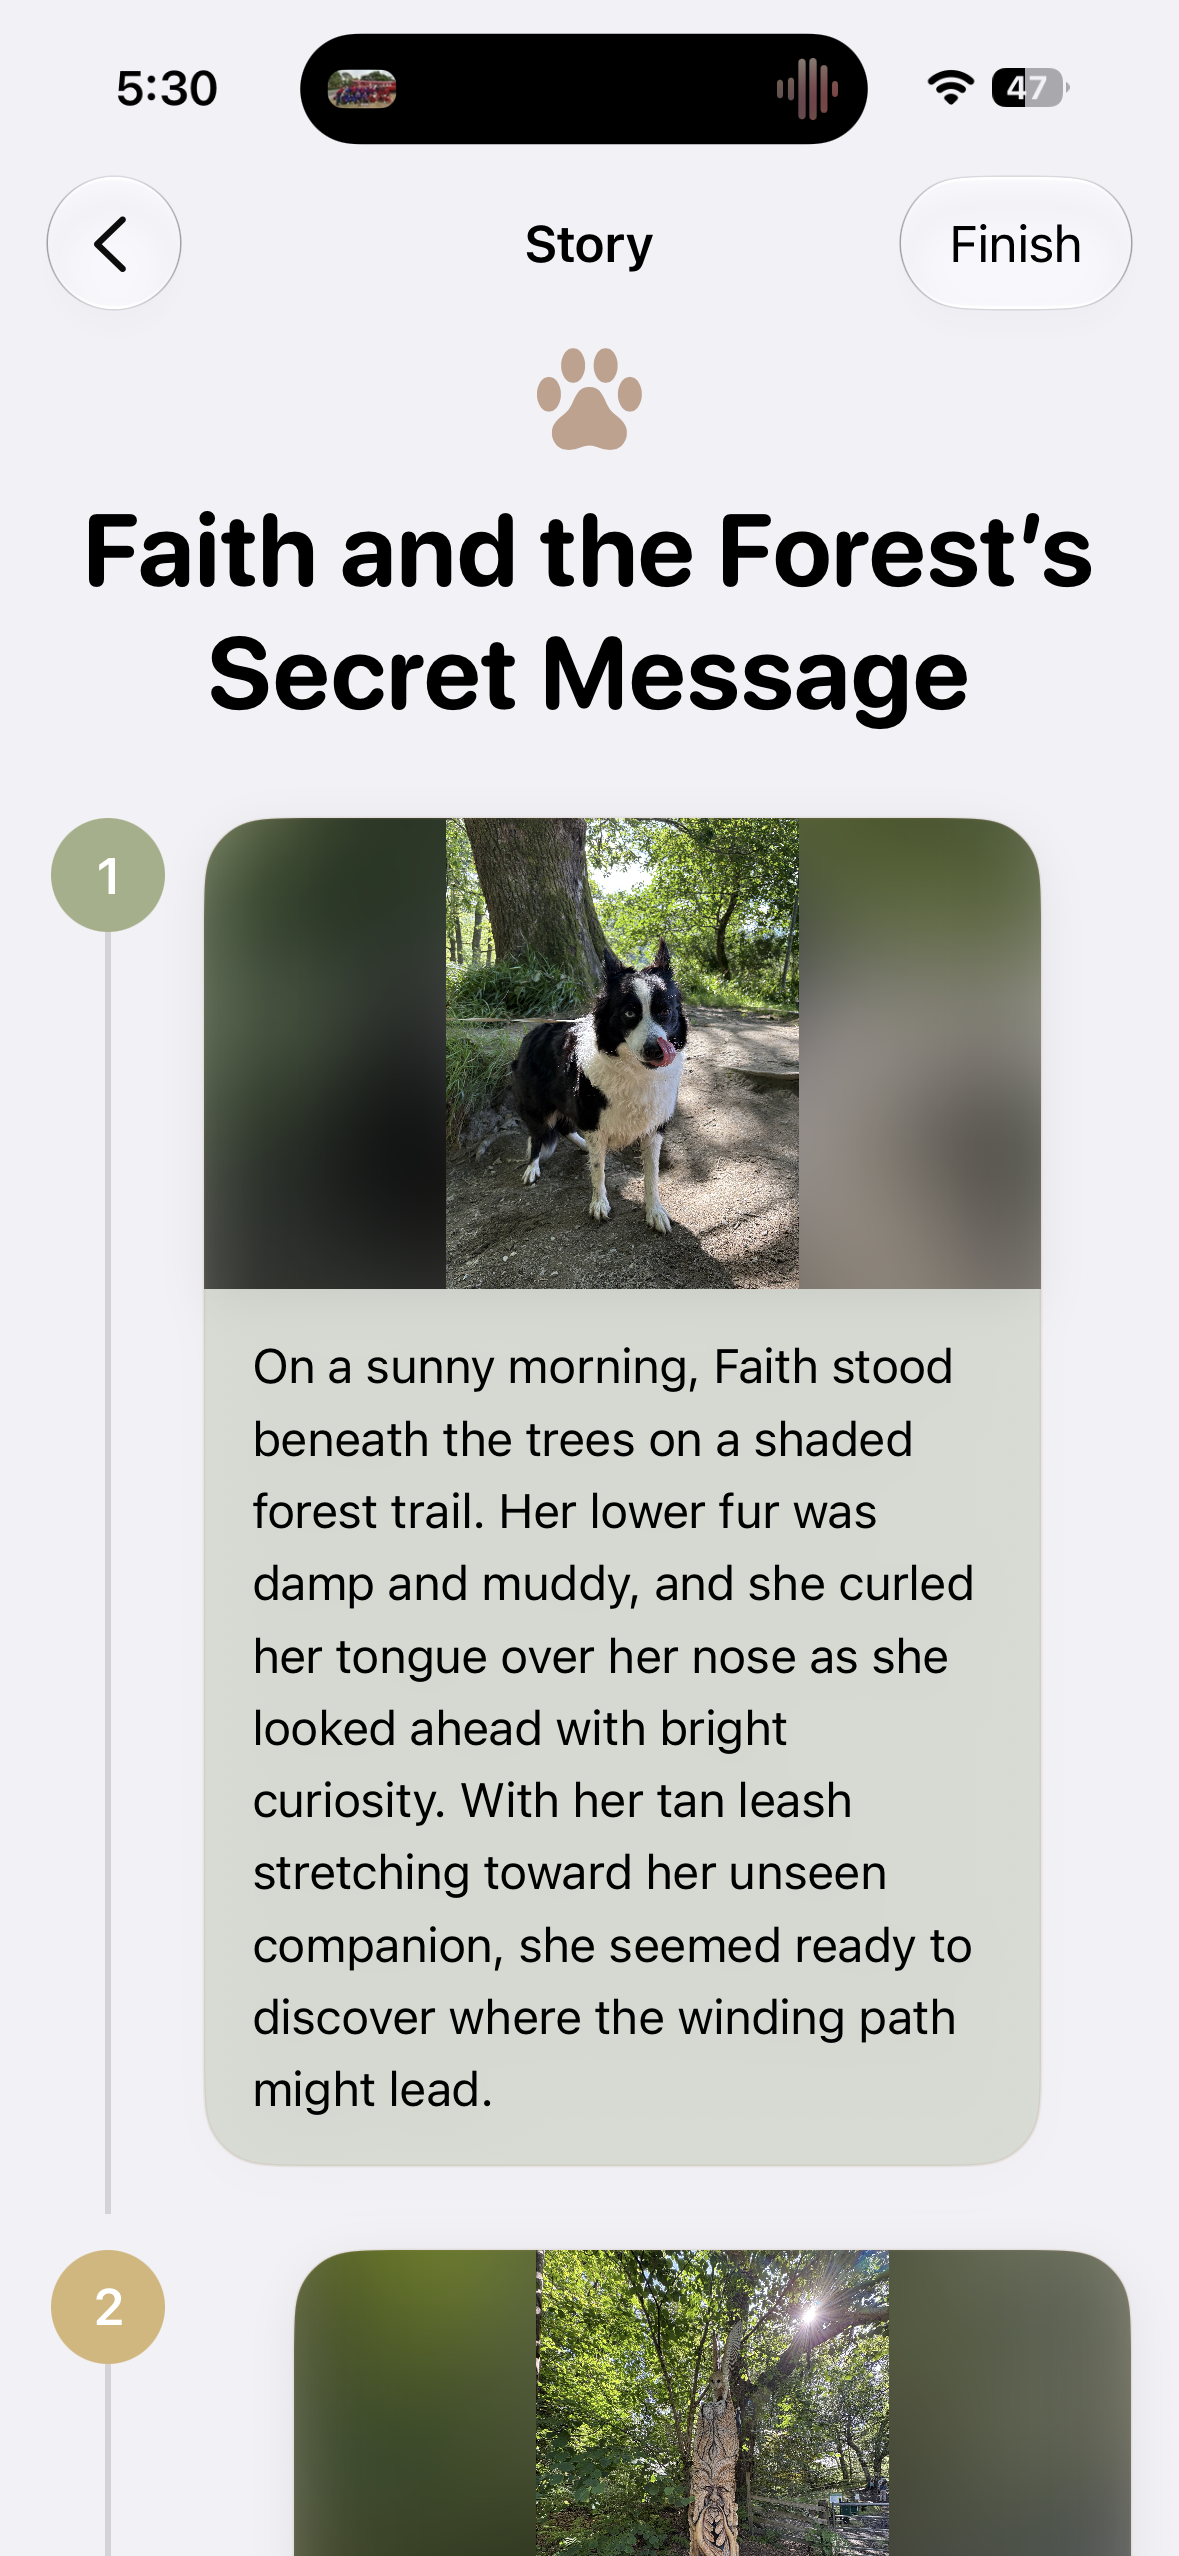
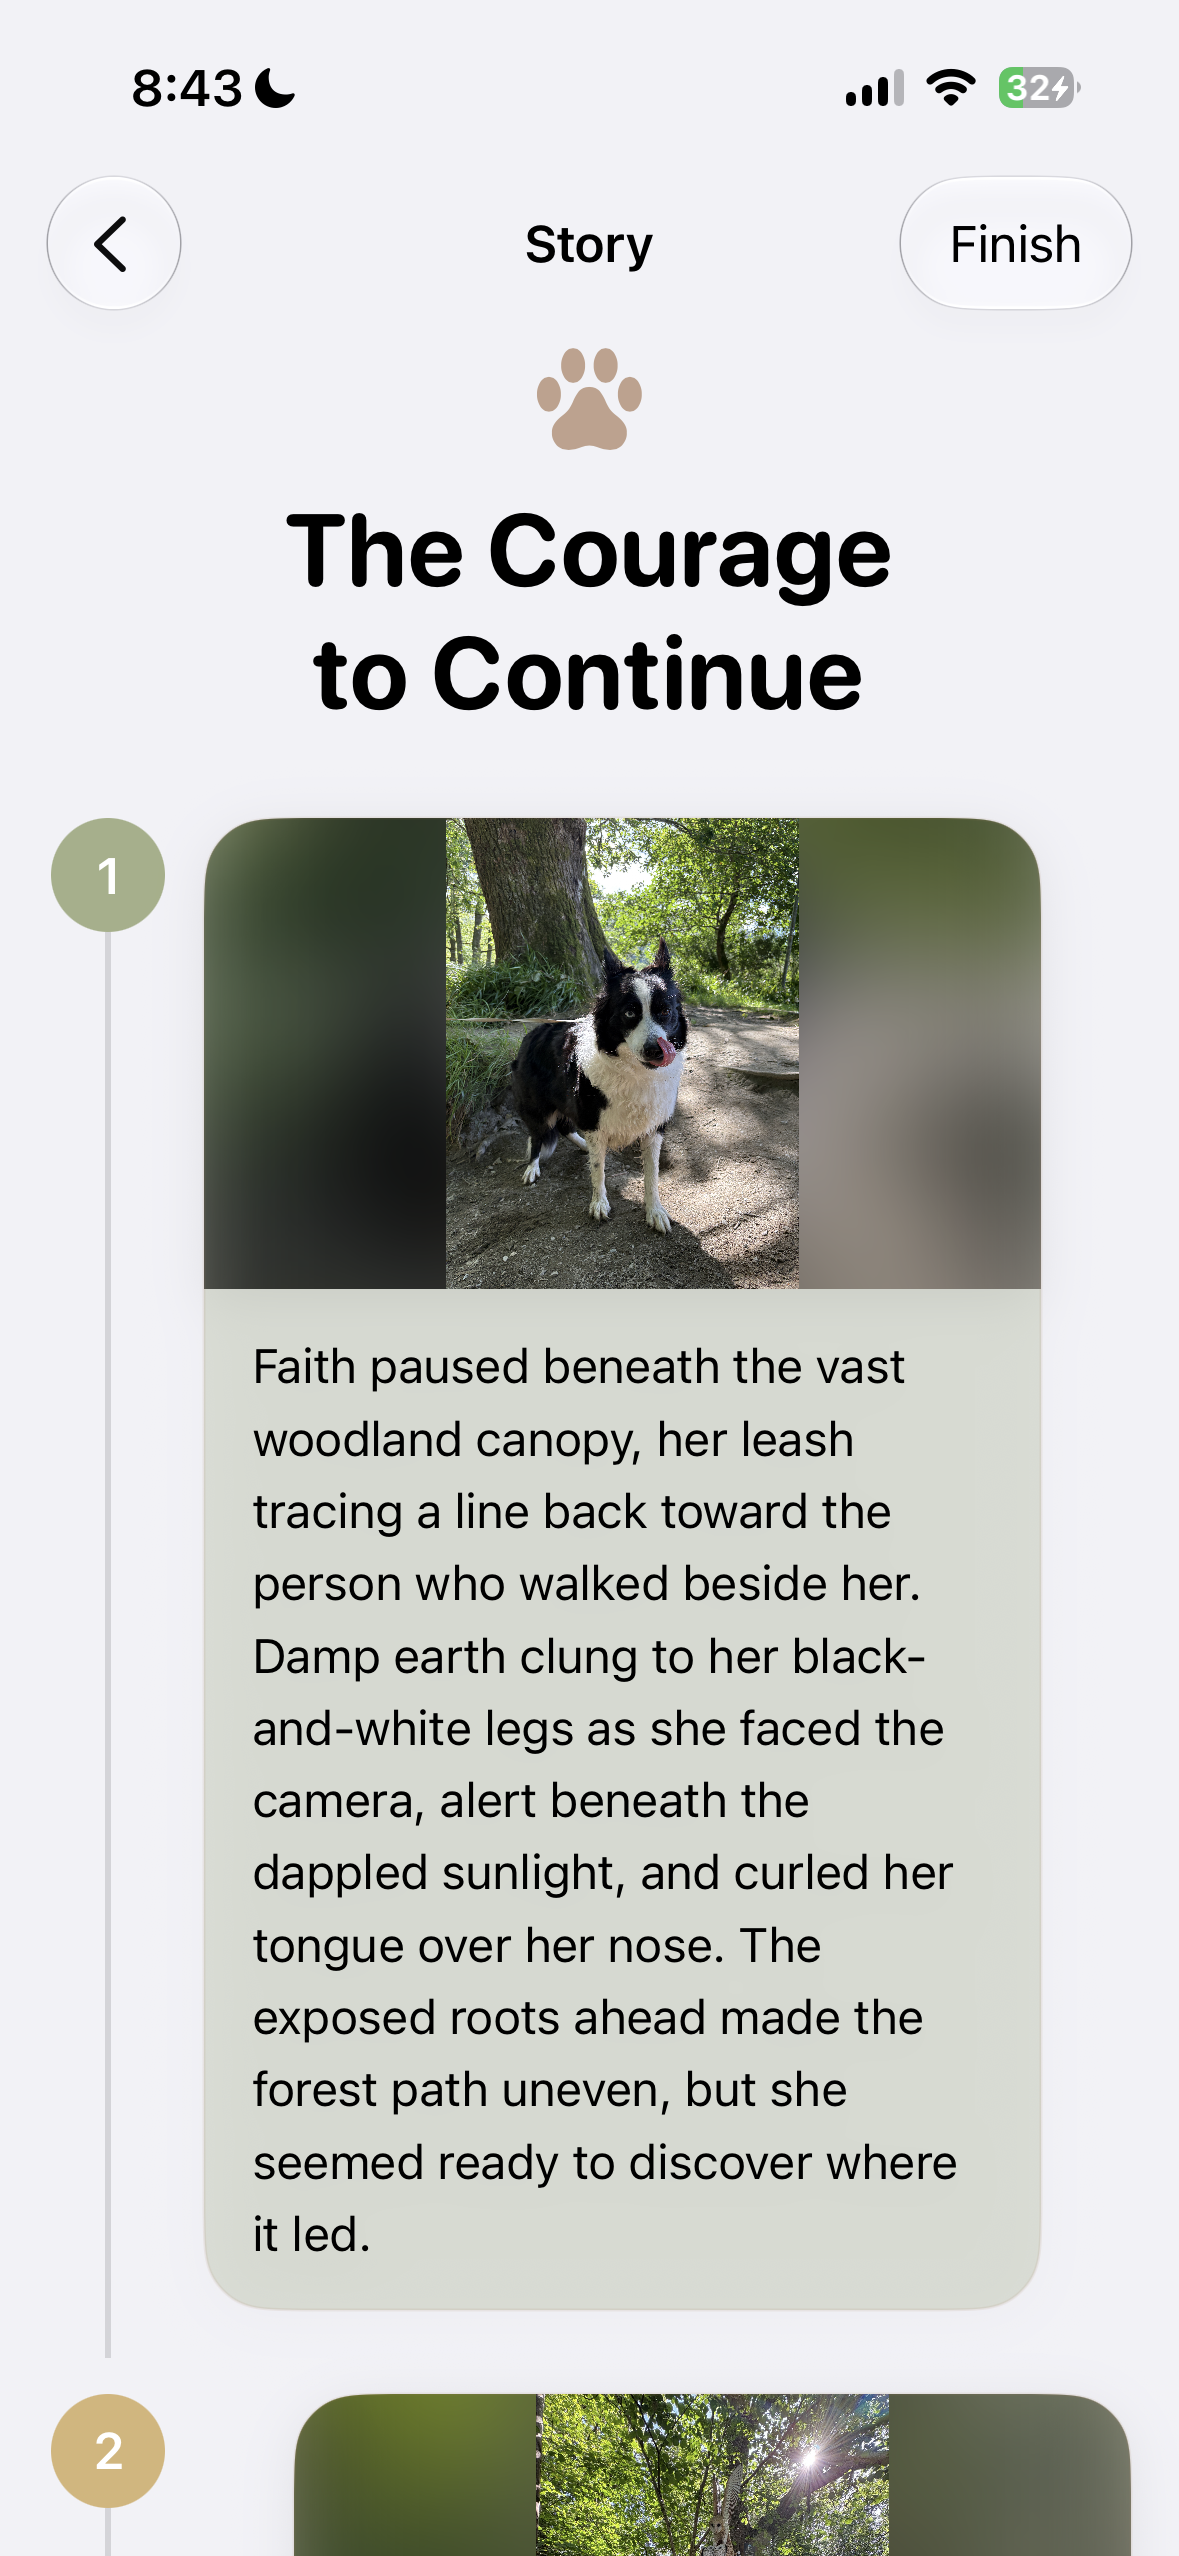
feat: update photos

diff --git a/paw-story/index.html b/paw-story/index.html
@@ -17,7 +17,7 @@
     <header class="site-header">
         <a href="../" class="brand" aria-label="Return to portfolio">
             <img src="images/app-icon.png" alt="">
-            <span>Return</span>
+            <span>Return to portfolio</span>
         </a>
 
         <nav aria-label="Main navigation">
@@ -157,7 +157,6 @@
         <div>
             <a href="privacy/">Privacy</a>
             <a href="support/">Support</a>
-            <a href="../">Developer</a>
         </div>
     </footer>
 </body>

diff --git a/index.html b/index.html
@@ -60,7 +60,6 @@
                 <p>An AI-assisted iOS app that transforms your dog's photos into personalised stories and provides photo-based insights.</p>
                 <div class="card-links">
                     <a href="paw-story/" class="btn"> Learn More </a>
-                    <a href="paw-story/privacy/" class="btn btn-secondary"> Privacy </a>
                 </div>
             </div>
         </div>
